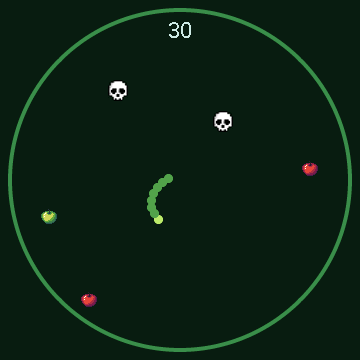
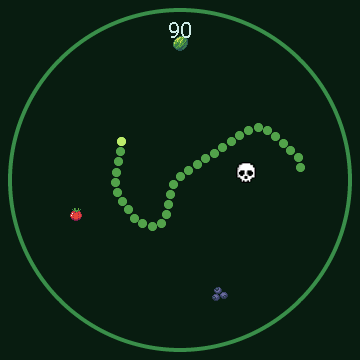
Release prep: Snake 360, point assets/example at main
- Rename the game to "Snake 360" in the README + tree + changelog.
- Update the README thumbnail to a 360-degree gameplay capture.
- Point the Snake sprite URLs at the main branch (consistent with the other
  screens) and set the example guition-va.yaml ref to main, ahead of merge.

diff --git a/scripts/gen_snake.py b/scripts/gen_snake.py
@@ -40,7 +40,7 @@ FRUIT_WAIT = 90    # ticks between fruit top-ups (~4.5s); halved when only 1 fru
 SKULL_WAIT = 200   # ticks between skull spawns (~10s)
 SKULL_LIFE = 220   # ticks a skull stays (~11s)
 
-BASE = "https://raw.githubusercontent.com/MichalZaniewicz/esphome-guition-jc3636k718c-va/beta/assets/sprites/snake/"
+BASE = "https://raw.githubusercontent.com/MichalZaniewicz/esphome-guition-jc3636k718c-va/main/assets/sprites/snake/"
 
 PAGE_BG  = "0x0D1E15"
 RING     = "0x3A8C4E"

diff --git a/README.md b/README.md
@@ -50,7 +50,7 @@ Everything is navigated with **swipes + taps on the screen** and the **rotary kn
 | <img src="assets/screens/timer.png" width="170"> | **Timer**<br>Set by knob or voice; big countdown with a depleting ring, pause/stop, and an alarm when it finishes. |
 | <img src="assets/screens/cool-cars.png" width="170"> | **Cool Cars**<br>A lane-racing arcade game - the knob steers, dodge traffic and grab coins. |
 | <img src="assets/screens/space-wars.png" width="170"> | **Space Wars**<br>A vertical space shooter - the knob steers, auto-fire, survive the waves. |
-| <img src="assets/screens/snake.png" width="170"> | **Snake**<br>The classic on a 12x12 grid - turn the knob to steer, eat apples to grow, don't hit the walls or your tail. Speeds up as you score; keeps a top-10. |
+| <img src="assets/screens/snake.png" width="170"> | **Snake 360**<br>A free 360-degree snake - turn the knob to steer the head and the body trails behind, across the whole round screen. Eat fruit (up to 3 at once) to grow, dodge the ring, your own tail and the skulls. Speeds up as you score; keeps a top-10. |
 | <img src="assets/screens/settings.png" width="170"> | **Settings** (swipe down)<br>Display, Home, Widgets, Ring, Assistant, System; turn the knob to scroll, tap to enter. |
 | <img src="assets/screens/demo.png" width="170"> | **Demo**<br>A small, heavily commented example screen (tap flips black ↔ white) to copy when building your own. |
 
@@ -95,7 +95,7 @@ base/                      # pulled as a remote package at compile time (no need
     timer.yaml             #   timer screen in the carousel
     cool-cars.yaml         #   "Cool Cars" game
     space-wars.yaml        #   "Space Wars" game
-    snake.yaml             #   "Snake" game (knob steers)
+    snake.yaml             #   "Snake 360" game (knob steers)
     weather.yaml           #   weather (today + 7-day radial dial)
     thermostat.yaml        #   thermostat (climate.* dial; knob sets target, tap on/off)
     sensors.yaml           #   sensors glance (1-6 HA entities, knob cycles)

diff --git a/CHANGELOG.md b/CHANGELOG.md
@@ -6,7 +6,7 @@ All notable changes to this project are documented here. The format is based on
 ## [2.1.4] - 2026-06-18
 
 ### Added
-- **Snake screen** (optional). A free 360-degree snake: turn the knob to steer the head's heading
+- **Snake 360 screen** (optional). A free 360-degree snake: turn the knob to steer the head's heading
   and the body trails behind it, across the whole round screen bounded by a green ring (the snake
   passes under the score). Eat fruit to grow and score - up to 3 fruit (random sprites from a set
   of 12) are kept on the board and replenished over time, sooner when only one is left. Up to two